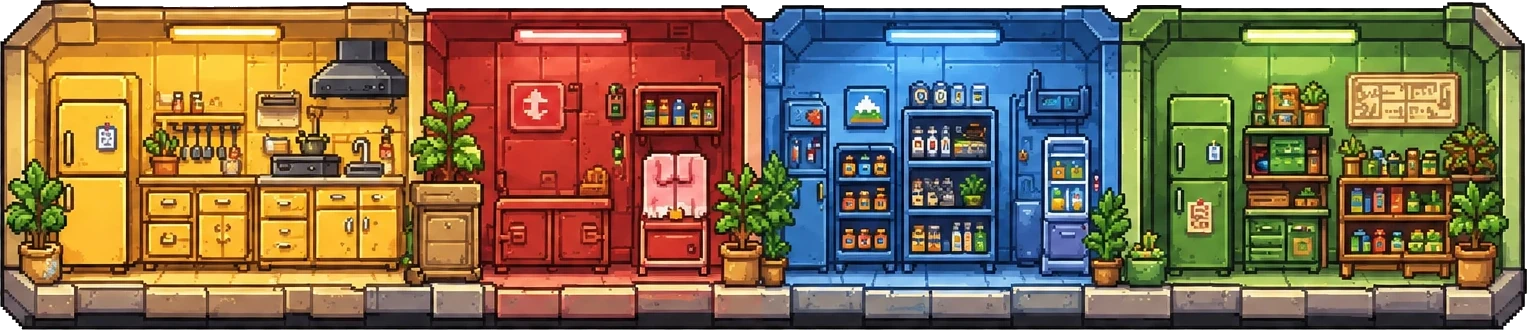
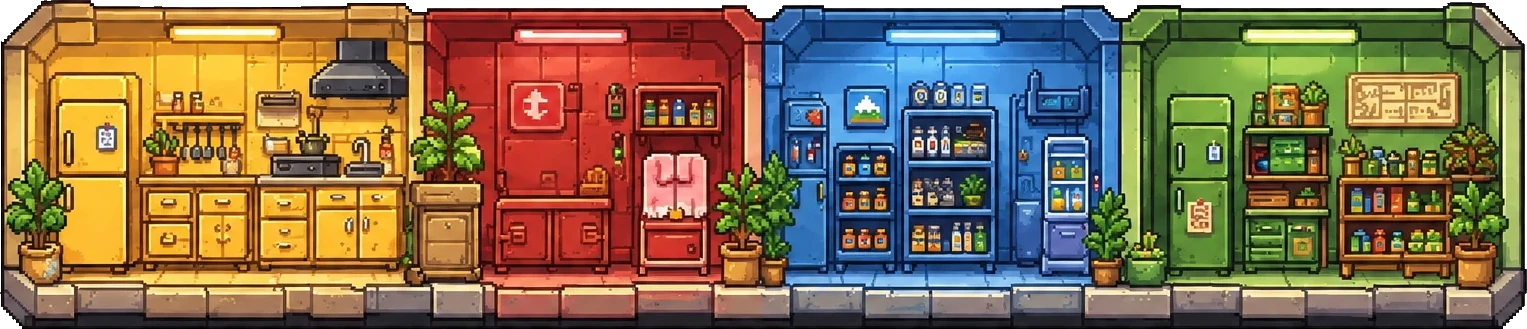
Crew strip: remove the grey halo left around the cut-out

diff --git a/apps/mobile/src/components/home/CrewDock.tsx b/apps/mobile/src/components/home/CrewDock.tsx
@@ -17,8 +17,8 @@ const GIFS = {
   shopkeeper: require("../../../assets/images/thatfridge/shopkeeper.gif"),
 } as const;
 
-/** crew-strip.webp is 1527×330. */
-const STRIP_RATIO = 1527 / 330;
+/** crew-strip.webp is 1527×329. */
+const STRIP_RATIO = 1527 / 329;
 /** Collapsed, only the bottom of the rooms shows: the floor with the crew standing on it. */
 const COLLAPSED_FRACTION = 0.74;
 /** Where the floor is, as a fraction of the strip's height from the top. */
